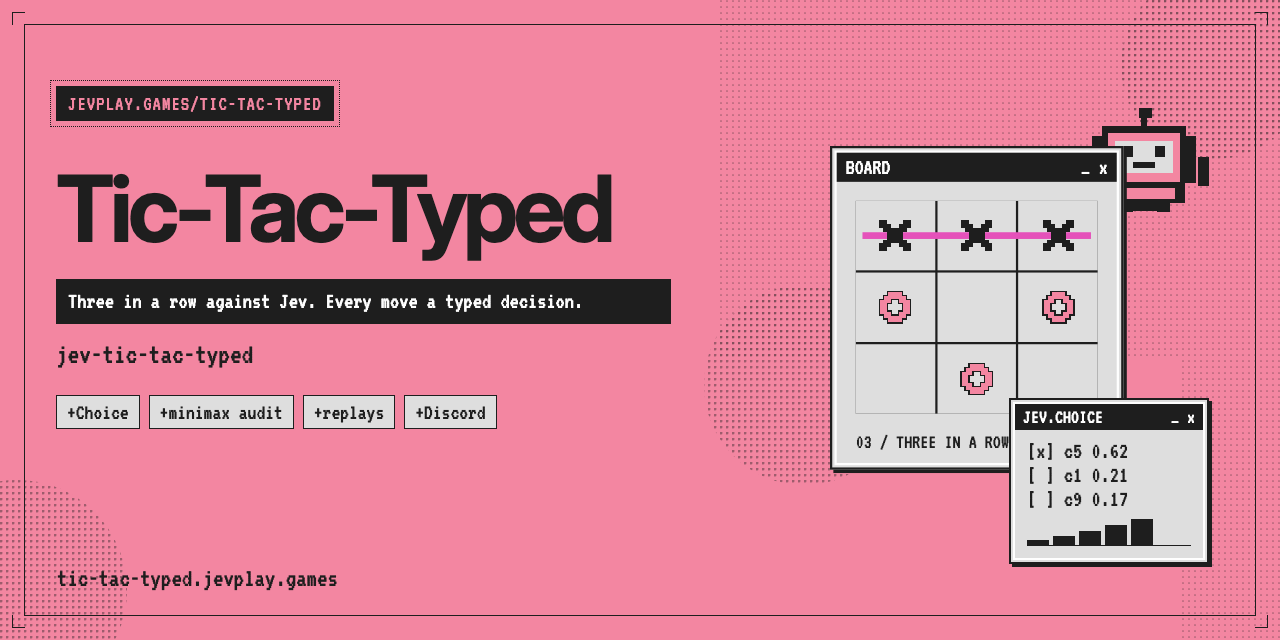
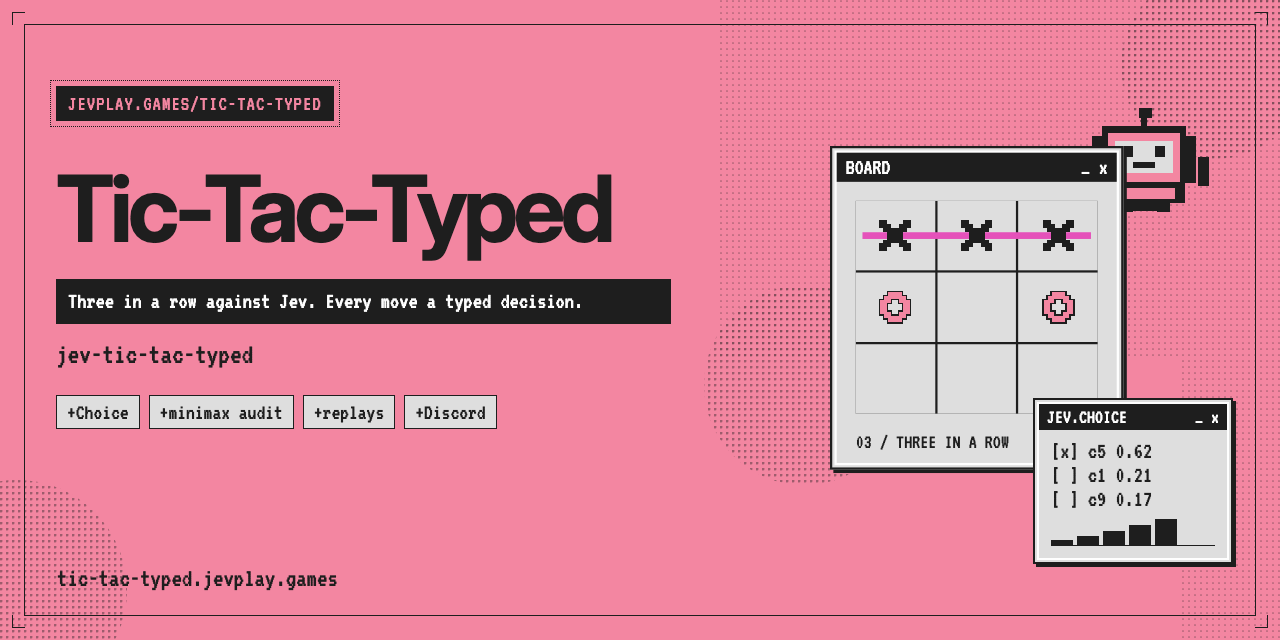
Show a legal final board and an unclipped caption on the Tic-Tac-Typed cards
The banner, social preview and OG card showed three Xs winning the top row
alongside three Os. X moves first, so a top-row win on X's third move leaves
O with two marks: the board was unreachable. The bottom-middle O is removed
from all three sources.

On the social preview the JEV.CHOICE window started exactly where the board
note ended, so its border clipped the W of "03 / THREE IN A ROW". The window
moves 24 px right; it stays inside the frame. The JEV.CHOICE title itself is
unchanged (open owner decision).

All three cards are re-rendered with assets/src/render.py (sizes unchanged:
2560x840, 1280x640, 1200x630). build-info, build-manifest and SHA256SUMS are
regenerated.

Changed region(s): [[0.7812, 0.625, 0.9688, 0.9062], [0.75, 0.5625, 0.7812, 0.625]]

diff --git a/assets/src/social.html b/assets/src/social.html
@@ -1,4 +1,4 @@
 <!doctype html><html><head><meta charset="utf-8"><title>Tic-Tac-Typed</title><style>
 @font-face{font-family:Inter;src:url('../../public/brand/inter-var.woff2')}@font-face{font-family:VT323;src:url('../../public/brand/vt323.woff2')}
-*{box-sizing:border-box}body{margin:0;background:#F386A1;color:#1E1E1E;font-family:VT323,'JetBrains Mono',monospace}main{position:relative;width:1280px;height:420px;overflow:hidden}.frame{position:absolute;inset:24px;border:1px solid #1E1E1E}.crop{position:absolute;width:13px;height:13px;border-color:#1E1E1E;border-style:solid;border-width:1px 0 0 1px;left:12px;top:12px}.crop.b{left:auto;right:12px;transform:rotate(90deg)}.crop.c{top:auto;bottom:12px;transform:rotate(-90deg)}.crop.d{left:auto;top:auto;right:12px;bottom:12px;transform:rotate(180deg)}.texture{position:absolute;inset:0;width:100%;height:100%}.copy{position:absolute;left:56px;top:49px;z-index:2}.tag{display:inline-block;background:#1E1E1E;color:#F386A1;font-size:21px;letter-spacing:1px;padding:7px 12px;outline:1px dotted #1E1E1E;outline-offset:5px}h1{font-family:Inter,sans-serif;font-weight:700;font-size:92px;letter-spacing:-4.5px;line-height:1.04;margin:31px 0 22px}.subtitle{background:#1E1E1E;color:#FEFEFE;font-size:23px;padding:9px 12px;width:max-content;max-width:720px}.chips{display:flex;gap:9px;margin-top:23px}.chip{background:#DEDEDE;border:1px solid #1E1E1E;padding:5px 10px;font-size:22px}.window{position:absolute;border:2px solid #1E1E1E;background:#DEDEDE;box-shadow:3px 3px 0 #1E1E1E;padding:2px;z-index:3}.inside{border:2px solid #FEFEFE}.bar{background:#1E1E1E;color:#FEFEFE;display:flex;justify-content:space-between;font-size:20px;line-height:26px;padding:0 8px;white-space:nowrap}.board{left:826px;top:59px;width:262px}.grid{display:grid;grid-template-columns:repeat(3,1fr);gap:2px;background:#1E1E1E;margin:17px;position:relative}.cell{height:62px;background:#DEDEDE;display:flex;align-items:center;justify-content:center}.cell svg{position:relative;z-index:1;width:44px;height:44px;shape-rendering:crispEdges}.win{position:absolute;left:6px;right:6px;top:28px;height:6px;background:#E551BA}.boardnote{font-size:18px;padding:0 17px 9px}.choice{left:1027px;top:224px;width:200px;z-index:4}.list{font-size:23px;padding:10px 12px 7px;line-height:1.05}.meter{height:27px;margin:0 12px 12px;display:flex;align-items:end;gap:4px;border-bottom:1px solid #1E1E1E}.meter i{display:block;background:#1E1E1E;width:22px}.robot{position:absolute;left:1064px;top:112px;width:140px;height:auto;z-index:2}.foot{position:absolute;left:57px;bottom:49px;font-size:26px}.slug{font-size:29px;margin:16px 0 0}.social main{height:640px}.social .copy{top:86px}.social h1{margin-top:40px}.social .subtitle{font-size:23px;width:615px;line-height:1.2}.social .chips{margin-top:26px}.social .board{left:830px;top:146px;transform:scale(1.12);transform-origin:top left}.social .choice{left:1009px;top:398px}.social .robot{left:1074px;top:105px}.og main{width:1200px;height:630px}.og .copy{top:93px}.og h1{font-size:84px;letter-spacing:-4.1px;margin-top:46px}.og .subtitle{font-size:30px}.og .board{left:830px;top:190px;transform:scale(1.12);transform-origin:top left}.og .robot{left:1002px;top:106px}.og .foot{bottom:55px}
-</style></head><body class="social"><main><svg class="texture" xmlns="http://www.w3.org/2000/svg"><defs><pattern id="dots" width="6" height="6" patternUnits="userSpaceOnUse"><circle cx="1" cy="1" r=".85" fill="#1E1E1E" opacity=".4"/></pattern><pattern id="dense" width="6" height="6" patternUnits="userSpaceOnUse"><circle cx="1" cy="1" r="1.5" fill="#1E1E1E" opacity=".4"/></pattern></defs><path d="M720 0H1280V640H1180V360H720Z" fill="url(#dots)"/><circle cx="804" cy="385" r="100" fill="url(#dense)"/><circle cx="1215" cy="65" r="94" fill="url(#dense)"/><circle cx="17" cy="590" r="110" fill="url(#dense)"/></svg><div class="frame"></div><i class="crop a"></i><i class="crop b"></i><i class="crop c"></i><i class="crop d"></i><div class="copy"><div class="tag">JEVPLAY.GAMES/TIC-TAC-TYPED</div><h1>Tic-Tac-Typed</h1><div class="subtitle">Three in a row against Jev. Every move a typed decision.</div><div class="slug">jev-tic-tac-typed</div><div class="chips"><span class="chip">+Choice</span><span class="chip">+minimax audit</span><span class="chip">+replays</span><span class="chip">+Discord</span></div></div><svg class="robot" viewBox="0 0 86 66" xmlns="http://www.w3.org/2000/svg" role="img" aria-label="Jev, a friendly boxy pixel robot" shape-rendering="crispEdges"><g fill="#1E1E1E"><path d="M40 2h8v6h-3v5h24v6h6v29h-7v12H53v5H33v-5H18V48h-7V19h6v-6h24V8h-1z"/><path d="M3 32h7v18H3zm73 0h7v18h-7z"/></g><path fill="#F386A1" d="M21 17h44v30H21zM24 51h38v7H24z"/><path fill="#DEDEDE" d="M25 22h36v20H25z"/><g fill="#1E1E1E"><path d="M30 25h6v7h-6zm20 0h6v7h-6zM36 35h14v4H36zM28 59h8v7h-8zm23 0h8v7h-8z"/></g></svg><section class="window board"><div class="inside"><div class="bar"><span>BOARD</span><span>_ x</span></div><div class="grid"><div class="cell"><svg viewBox="0 0 100 100"><path fill="#1E1E1E" d="M18 18h16v8h8v8h16v-8h8v-8h16v16h-8v8h-8v16h8v8h8v16H66v-8h-8v-8H42v8h-8v8H18V66h8v-8h8V42h-8v-8h-8z"/></svg></div><div class="cell"><svg viewBox="0 0 100 100"><path fill="#1E1E1E" d="M18 18h16v8h8v8h16v-8h8v-8h16v16h-8v8h-8v16h8v8h8v16H66v-8h-8v-8H42v8h-8v8H18V66h8v-8h8V42h-8v-8h-8z"/></svg></div><div class="cell"><svg viewBox="0 0 100 100"><path fill="#1E1E1E" d="M18 18h16v8h8v8h16v-8h8v-8h16v16h-8v8h-8v16h8v8h8v16H66v-8h-8v-8H42v8h-8v8H18V66h8v-8h8V42h-8v-8h-8z"/></svg></div><div class="cell"><svg viewBox="0 0 100 100"><path fill="#F386A1" fill-rule="evenodd" stroke="#1E1E1E" stroke-width="3" stroke-linejoin="miter" d="M34.5 18.5h31v8h8v8h8v31h-8v8h-8v8h-31v-8h-8v-8h-8v-31h8v-8h8z M42.5 34.5h15v8h8v15h-8v8h-15v-8h-8v-15h8z"/></svg></div><div class="cell"></div><div class="cell"><svg viewBox="0 0 100 100"><path fill="#F386A1" fill-rule="evenodd" stroke="#1E1E1E" stroke-width="3" stroke-linejoin="miter" d="M34.5 18.5h31v8h8v8h8v31h-8v8h-8v8h-31v-8h-8v-8h-8v-31h8v-8h8z M42.5 34.5h15v8h8v15h-8v8h-15v-8h-8v-15h8z"/></svg></div><div class="cell"></div><div class="cell"><svg viewBox="0 0 100 100"><path fill="#F386A1" fill-rule="evenodd" stroke="#1E1E1E" stroke-width="3" stroke-linejoin="miter" d="M34.5 18.5h31v8h8v8h8v31h-8v8h-8v8h-31v-8h-8v-8h-8v-31h8v-8h8z M42.5 34.5h15v8h8v15h-8v8h-15v-8h-8v-15h8z"/></svg></div><div class="cell"></div><div class="win"></div></div><div class="boardnote">03 / THREE IN A ROW</div></div></section><section class="window choice"><div class="inside"><div class="bar"><span>JEV.CHOICE</span><span>_ x</span></div><div class="list">[x] c5 0.62<br>[ ] c1 0.21<br>[ ] c9 0.17</div><div class="meter"><i style="height:5px"></i><i style="height:9px"></i><i style="height:14px"></i><i style="height:20px"></i><i style="height:26px"></i></div></div></section><footer class="foot">tic-tac-typed.jevplay.games</footer></main></body></html>
+*{box-sizing:border-box}body{margin:0;background:#F386A1;color:#1E1E1E;font-family:VT323,'JetBrains Mono',monospace}main{position:relative;width:1280px;height:420px;overflow:hidden}.frame{position:absolute;inset:24px;border:1px solid #1E1E1E}.crop{position:absolute;width:13px;height:13px;border-color:#1E1E1E;border-style:solid;border-width:1px 0 0 1px;left:12px;top:12px}.crop.b{left:auto;right:12px;transform:rotate(90deg)}.crop.c{top:auto;bottom:12px;transform:rotate(-90deg)}.crop.d{left:auto;top:auto;right:12px;bottom:12px;transform:rotate(180deg)}.texture{position:absolute;inset:0;width:100%;height:100%}.copy{position:absolute;left:56px;top:49px;z-index:2}.tag{display:inline-block;background:#1E1E1E;color:#F386A1;font-size:21px;letter-spacing:1px;padding:7px 12px;outline:1px dotted #1E1E1E;outline-offset:5px}h1{font-family:Inter,sans-serif;font-weight:700;font-size:92px;letter-spacing:-4.5px;line-height:1.04;margin:31px 0 22px}.subtitle{background:#1E1E1E;color:#FEFEFE;font-size:23px;padding:9px 12px;width:max-content;max-width:720px}.chips{display:flex;gap:9px;margin-top:23px}.chip{background:#DEDEDE;border:1px solid #1E1E1E;padding:5px 10px;font-size:22px}.window{position:absolute;border:2px solid #1E1E1E;background:#DEDEDE;box-shadow:3px 3px 0 #1E1E1E;padding:2px;z-index:3}.inside{border:2px solid #FEFEFE}.bar{background:#1E1E1E;color:#FEFEFE;display:flex;justify-content:space-between;font-size:20px;line-height:26px;padding:0 8px;white-space:nowrap}.board{left:826px;top:59px;width:262px}.grid{display:grid;grid-template-columns:repeat(3,1fr);gap:2px;background:#1E1E1E;margin:17px;position:relative}.cell{height:62px;background:#DEDEDE;display:flex;align-items:center;justify-content:center}.cell svg{position:relative;z-index:1;width:44px;height:44px;shape-rendering:crispEdges}.win{position:absolute;left:6px;right:6px;top:28px;height:6px;background:#E551BA}.boardnote{font-size:18px;padding:0 17px 9px}.choice{left:1027px;top:224px;width:200px;z-index:4}.list{font-size:23px;padding:10px 12px 7px;line-height:1.05}.meter{height:27px;margin:0 12px 12px;display:flex;align-items:end;gap:4px;border-bottom:1px solid #1E1E1E}.meter i{display:block;background:#1E1E1E;width:22px}.robot{position:absolute;left:1064px;top:112px;width:140px;height:auto;z-index:2}.foot{position:absolute;left:57px;bottom:49px;font-size:26px}.slug{font-size:29px;margin:16px 0 0}.social main{height:640px}.social .copy{top:86px}.social h1{margin-top:40px}.social .subtitle{font-size:23px;width:615px;line-height:1.2}.social .chips{margin-top:26px}.social .board{left:830px;top:146px;transform:scale(1.12);transform-origin:top left}.social .choice{left:1033px;top:398px}.social .robot{left:1074px;top:105px}.og main{width:1200px;height:630px}.og .copy{top:93px}.og h1{font-size:84px;letter-spacing:-4.1px;margin-top:46px}.og .subtitle{font-size:30px}.og .board{left:830px;top:190px;transform:scale(1.12);transform-origin:top left}.og .robot{left:1002px;top:106px}.og .foot{bottom:55px}
+</style></head><body class="social"><main><svg class="texture" xmlns="http://www.w3.org/2000/svg"><defs><pattern id="dots" width="6" height="6" patternUnits="userSpaceOnUse"><circle cx="1" cy="1" r=".85" fill="#1E1E1E" opacity=".4"/></pattern><pattern id="dense" width="6" height="6" patternUnits="userSpaceOnUse"><circle cx="1" cy="1" r="1.5" fill="#1E1E1E" opacity=".4"/></pattern></defs><path d="M720 0H1280V640H1180V360H720Z" fill="url(#dots)"/><circle cx="804" cy="385" r="100" fill="url(#dense)"/><circle cx="1215" cy="65" r="94" fill="url(#dense)"/><circle cx="17" cy="590" r="110" fill="url(#dense)"/></svg><div class="frame"></div><i class="crop a"></i><i class="crop b"></i><i class="crop c"></i><i class="crop d"></i><div class="copy"><div class="tag">JEVPLAY.GAMES/TIC-TAC-TYPED</div><h1>Tic-Tac-Typed</h1><div class="subtitle">Three in a row against Jev. Every move a typed decision.</div><div class="slug">jev-tic-tac-typed</div><div class="chips"><span class="chip">+Choice</span><span class="chip">+minimax audit</span><span class="chip">+replays</span><span class="chip">+Discord</span></div></div><svg class="robot" viewBox="0 0 86 66" xmlns="http://www.w3.org/2000/svg" role="img" aria-label="Jev, a friendly boxy pixel robot" shape-rendering="crispEdges"><g fill="#1E1E1E"><path d="M40 2h8v6h-3v5h24v6h6v29h-7v12H53v5H33v-5H18V48h-7V19h6v-6h24V8h-1z"/><path d="M3 32h7v18H3zm73 0h7v18h-7z"/></g><path fill="#F386A1" d="M21 17h44v30H21zM24 51h38v7H24z"/><path fill="#DEDEDE" d="M25 22h36v20H25z"/><g fill="#1E1E1E"><path d="M30 25h6v7h-6zm20 0h6v7h-6zM36 35h14v4H36zM28 59h8v7h-8zm23 0h8v7h-8z"/></g></svg><section class="window board"><div class="inside"><div class="bar"><span>BOARD</span><span>_ x</span></div><div class="grid"><div class="cell"><svg viewBox="0 0 100 100"><path fill="#1E1E1E" d="M18 18h16v8h8v8h16v-8h8v-8h16v16h-8v8h-8v16h8v8h8v16H66v-8h-8v-8H42v8h-8v8H18V66h8v-8h8V42h-8v-8h-8z"/></svg></div><div class="cell"><svg viewBox="0 0 100 100"><path fill="#1E1E1E" d="M18 18h16v8h8v8h16v-8h8v-8h16v16h-8v8h-8v16h8v8h8v16H66v-8h-8v-8H42v8h-8v8H18V66h8v-8h8V42h-8v-8h-8z"/></svg></div><div class="cell"><svg viewBox="0 0 100 100"><path fill="#1E1E1E" d="M18 18h16v8h8v8h16v-8h8v-8h16v16h-8v8h-8v16h8v8h8v16H66v-8h-8v-8H42v8h-8v8H18V66h8v-8h8V42h-8v-8h-8z"/></svg></div><div class="cell"><svg viewBox="0 0 100 100"><path fill="#F386A1" fill-rule="evenodd" stroke="#1E1E1E" stroke-width="3" stroke-linejoin="miter" d="M34.5 18.5h31v8h8v8h8v31h-8v8h-8v8h-31v-8h-8v-8h-8v-31h8v-8h8z M42.5 34.5h15v8h8v15h-8v8h-15v-8h-8v-15h8z"/></svg></div><div class="cell"></div><div class="cell"><svg viewBox="0 0 100 100"><path fill="#F386A1" fill-rule="evenodd" stroke="#1E1E1E" stroke-width="3" stroke-linejoin="miter" d="M34.5 18.5h31v8h8v8h8v31h-8v8h-8v8h-31v-8h-8v-8h-8v-31h8v-8h8z M42.5 34.5h15v8h8v15h-8v8h-15v-8h-8v-15h8z"/></svg></div><div class="cell"></div><div class="cell"></div><div class="cell"></div><div class="win"></div></div><div class="boardnote">03 / THREE IN A ROW</div></div></section><section class="window choice"><div class="inside"><div class="bar"><span>JEV.CHOICE</span><span>_ x</span></div><div class="list">[x] c5 0.62<br>[ ] c1 0.21<br>[ ] c9 0.17</div><div class="meter"><i style="height:5px"></i><i style="height:9px"></i><i style="height:14px"></i><i style="height:20px"></i><i style="height:26px"></i></div></div></section><footer class="foot">tic-tac-typed.jevplay.games</footer></main></body></html>

diff --git a/assets/src/banner.html b/assets/src/banner.html
@@ -1,4 +1,4 @@
 <!doctype html><html><head><meta charset="utf-8"><title>Tic-Tac-Typed</title><style>
 @font-face{font-family:Inter;src:url('../../public/brand/inter-var.woff2')}@font-face{font-family:VT323;src:url('../../public/brand/vt323.woff2')}
-*{box-sizing:border-box}body{margin:0;background:#F386A1;color:#1E1E1E;font-family:VT323,'JetBrains Mono',monospace}main{position:relative;width:1280px;height:420px;overflow:hidden}.frame{position:absolute;inset:24px;border:1px solid #1E1E1E}.crop{position:absolute;width:13px;height:13px;border-color:#1E1E1E;border-style:solid;border-width:1px 0 0 1px;left:12px;top:12px}.crop.b{left:auto;right:12px;transform:rotate(90deg)}.crop.c{top:auto;bottom:12px;transform:rotate(-90deg)}.crop.d{left:auto;top:auto;right:12px;bottom:12px;transform:rotate(180deg)}.texture{position:absolute;inset:0;width:100%;height:100%}.copy{position:absolute;left:56px;top:49px;z-index:2}.tag{display:inline-block;background:#1E1E1E;color:#F386A1;font-size:21px;letter-spacing:1px;padding:7px 12px;outline:1px dotted #1E1E1E;outline-offset:5px}h1{font-family:Inter,sans-serif;font-weight:700;font-size:92px;letter-spacing:-4.5px;line-height:1.04;margin:31px 0 22px}.subtitle{background:#1E1E1E;color:#FEFEFE;font-size:23px;padding:9px 12px;width:max-content;max-width:720px}.chips{display:flex;gap:9px;margin-top:23px}.chip{background:#DEDEDE;border:1px solid #1E1E1E;padding:5px 10px;font-size:22px}.window{position:absolute;border:2px solid #1E1E1E;background:#DEDEDE;box-shadow:3px 3px 0 #1E1E1E;padding:2px;z-index:3}.inside{border:2px solid #FEFEFE}.bar{background:#1E1E1E;color:#FEFEFE;display:flex;justify-content:space-between;font-size:20px;line-height:26px;padding:0 8px;white-space:nowrap}.board{left:826px;top:59px;width:262px}.grid{display:grid;grid-template-columns:repeat(3,1fr);gap:2px;background:#1E1E1E;margin:17px;position:relative}.cell{height:62px;background:#DEDEDE;display:flex;align-items:center;justify-content:center}.cell svg{position:relative;z-index:1;width:44px;height:44px;shape-rendering:crispEdges}.win{position:absolute;left:6px;right:6px;top:28px;height:6px;background:#E551BA}.boardnote{font-size:18px;padding:0 17px 9px}.choice{left:1027px;top:224px;width:200px;z-index:4}.list{font-size:23px;padding:10px 12px 7px;line-height:1.05}.meter{height:27px;margin:0 12px 12px;display:flex;align-items:end;gap:4px;border-bottom:1px solid #1E1E1E}.meter i{display:block;background:#1E1E1E;width:22px}.robot{position:absolute;left:1064px;top:112px;width:140px;height:auto;z-index:2}.foot{position:absolute;left:57px;bottom:49px;font-size:26px}.slug{font-size:29px;margin:16px 0 0}.social main{height:640px}.social .copy{top:86px}.social h1{margin-top:40px}.social .subtitle{font-size:23px;width:615px;line-height:1.2}.social .chips{margin-top:26px}.social .board{left:830px;top:146px;transform:scale(1.12);transform-origin:top left}.social .choice{left:1009px;top:398px}.social .robot{left:1074px;top:105px}.og main{width:1200px;height:630px}.og .copy{top:93px}.og h1{font-size:84px;letter-spacing:-4.1px;margin-top:46px}.og .subtitle{font-size:30px}.og .board{left:830px;top:190px;transform:scale(1.12);transform-origin:top left}.og .robot{left:1002px;top:106px}.og .foot{bottom:55px}
-</style></head><body class="banner"><main><svg class="texture" xmlns="http://www.w3.org/2000/svg"><defs><pattern id="dots" width="6" height="6" patternUnits="userSpaceOnUse"><circle cx="1" cy="1" r=".85" fill="#1E1E1E" opacity=".4"/></pattern><pattern id="dense" width="6" height="6" patternUnits="userSpaceOnUse"><circle cx="1" cy="1" r="1.5" fill="#1E1E1E" opacity=".4"/></pattern></defs><path d="M720 0H1280V640H1180V360H720Z" fill="url(#dots)"/><circle cx="804" cy="385" r="100" fill="url(#dense)"/><circle cx="1215" cy="65" r="94" fill="url(#dense)"/><circle cx="17" cy="590" r="110" fill="url(#dense)"/></svg><div class="frame"></div><i class="crop a"></i><i class="crop b"></i><i class="crop c"></i><i class="crop d"></i><div class="copy"><div class="tag">JEVPLAY.GAMES/TIC-TAC-TYPED</div><h1>Tic-Tac-Typed</h1><div class="subtitle">Three in a row against Jev. Every move a typed decision.</div><div class="chips"><span class="chip">+Choice</span><span class="chip">+minimax audit</span><span class="chip">+replays</span><span class="chip">+Discord</span></div></div><svg class="robot" viewBox="0 0 86 66" xmlns="http://www.w3.org/2000/svg" role="img" aria-label="Jev, a friendly boxy pixel robot" shape-rendering="crispEdges"><g fill="#1E1E1E"><path d="M40 2h8v6h-3v5h24v6h6v29h-7v12H53v5H33v-5H18V48h-7V19h6v-6h24V8h-1z"/><path d="M3 32h7v18H3zm73 0h7v18h-7z"/></g><path fill="#F386A1" d="M21 17h44v30H21zM24 51h38v7H24z"/><path fill="#DEDEDE" d="M25 22h36v20H25z"/><g fill="#1E1E1E"><path d="M30 25h6v7h-6zm20 0h6v7h-6zM36 35h14v4H36zM28 59h8v7h-8zm23 0h8v7h-8z"/></g></svg><section class="window board"><div class="inside"><div class="bar"><span>BOARD</span><span>_ x</span></div><div class="grid"><div class="cell"><svg viewBox="0 0 100 100"><path fill="#1E1E1E" d="M18 18h16v8h8v8h16v-8h8v-8h16v16h-8v8h-8v16h8v8h8v16H66v-8h-8v-8H42v8h-8v8H18V66h8v-8h8V42h-8v-8h-8z"/></svg></div><div class="cell"><svg viewBox="0 0 100 100"><path fill="#1E1E1E" d="M18 18h16v8h8v8h16v-8h8v-8h16v16h-8v8h-8v16h8v8h8v16H66v-8h-8v-8H42v8h-8v8H18V66h8v-8h8V42h-8v-8h-8z"/></svg></div><div class="cell"><svg viewBox="0 0 100 100"><path fill="#1E1E1E" d="M18 18h16v8h8v8h16v-8h8v-8h16v16h-8v8h-8v16h8v8h8v16H66v-8h-8v-8H42v8h-8v8H18V66h8v-8h8V42h-8v-8h-8z"/></svg></div><div class="cell"><svg viewBox="0 0 100 100"><path fill="#F386A1" fill-rule="evenodd" stroke="#1E1E1E" stroke-width="3" stroke-linejoin="miter" d="M34.5 18.5h31v8h8v8h8v31h-8v8h-8v8h-31v-8h-8v-8h-8v-31h8v-8h8z M42.5 34.5h15v8h8v15h-8v8h-15v-8h-8v-15h8z"/></svg></div><div class="cell"></div><div class="cell"><svg viewBox="0 0 100 100"><path fill="#F386A1" fill-rule="evenodd" stroke="#1E1E1E" stroke-width="3" stroke-linejoin="miter" d="M34.5 18.5h31v8h8v8h8v31h-8v8h-8v8h-31v-8h-8v-8h-8v-31h8v-8h8z M42.5 34.5h15v8h8v15h-8v8h-15v-8h-8v-15h8z"/></svg></div><div class="cell"></div><div class="cell"><svg viewBox="0 0 100 100"><path fill="#F386A1" fill-rule="evenodd" stroke="#1E1E1E" stroke-width="3" stroke-linejoin="miter" d="M34.5 18.5h31v8h8v8h8v31h-8v8h-8v8h-31v-8h-8v-8h-8v-31h8v-8h8z M42.5 34.5h15v8h8v15h-8v8h-15v-8h-8v-15h8z"/></svg></div><div class="cell"></div><div class="win"></div></div><div class="boardnote">03 / THREE IN A ROW</div></div></section><section class="window choice"><div class="inside"><div class="bar"><span>JEV.CHOICE</span><span>_ x</span></div><div class="list">[x] c5 0.62<br>[ ] c1 0.21<br>[ ] c9 0.17</div><div class="meter"><i style="height:5px"></i><i style="height:9px"></i><i style="height:14px"></i><i style="height:20px"></i><i style="height:26px"></i></div></div></section></main></body></html>
+*{box-sizing:border-box}body{margin:0;background:#F386A1;color:#1E1E1E;font-family:VT323,'JetBrains Mono',monospace}main{position:relative;width:1280px;height:420px;overflow:hidden}.frame{position:absolute;inset:24px;border:1px solid #1E1E1E}.crop{position:absolute;width:13px;height:13px;border-color:#1E1E1E;border-style:solid;border-width:1px 0 0 1px;left:12px;top:12px}.crop.b{left:auto;right:12px;transform:rotate(90deg)}.crop.c{top:auto;bottom:12px;transform:rotate(-90deg)}.crop.d{left:auto;top:auto;right:12px;bottom:12px;transform:rotate(180deg)}.texture{position:absolute;inset:0;width:100%;height:100%}.copy{position:absolute;left:56px;top:49px;z-index:2}.tag{display:inline-block;background:#1E1E1E;color:#F386A1;font-size:21px;letter-spacing:1px;padding:7px 12px;outline:1px dotted #1E1E1E;outline-offset:5px}h1{font-family:Inter,sans-serif;font-weight:700;font-size:92px;letter-spacing:-4.5px;line-height:1.04;margin:31px 0 22px}.subtitle{background:#1E1E1E;color:#FEFEFE;font-size:23px;padding:9px 12px;width:max-content;max-width:720px}.chips{display:flex;gap:9px;margin-top:23px}.chip{background:#DEDEDE;border:1px solid #1E1E1E;padding:5px 10px;font-size:22px}.window{position:absolute;border:2px solid #1E1E1E;background:#DEDEDE;box-shadow:3px 3px 0 #1E1E1E;padding:2px;z-index:3}.inside{border:2px solid #FEFEFE}.bar{background:#1E1E1E;color:#FEFEFE;display:flex;justify-content:space-between;font-size:20px;line-height:26px;padding:0 8px;white-space:nowrap}.board{left:826px;top:59px;width:262px}.grid{display:grid;grid-template-columns:repeat(3,1fr);gap:2px;background:#1E1E1E;margin:17px;position:relative}.cell{height:62px;background:#DEDEDE;display:flex;align-items:center;justify-content:center}.cell svg{position:relative;z-index:1;width:44px;height:44px;shape-rendering:crispEdges}.win{position:absolute;left:6px;right:6px;top:28px;height:6px;background:#E551BA}.boardnote{font-size:18px;padding:0 17px 9px}.choice{left:1027px;top:224px;width:200px;z-index:4}.list{font-size:23px;padding:10px 12px 7px;line-height:1.05}.meter{height:27px;margin:0 12px 12px;display:flex;align-items:end;gap:4px;border-bottom:1px solid #1E1E1E}.meter i{display:block;background:#1E1E1E;width:22px}.robot{position:absolute;left:1064px;top:112px;width:140px;height:auto;z-index:2}.foot{position:absolute;left:57px;bottom:49px;font-size:26px}.slug{font-size:29px;margin:16px 0 0}.social main{height:640px}.social .copy{top:86px}.social h1{margin-top:40px}.social .subtitle{font-size:23px;width:615px;line-height:1.2}.social .chips{margin-top:26px}.social .board{left:830px;top:146px;transform:scale(1.12);transform-origin:top left}.social .choice{left:1033px;top:398px}.social .robot{left:1074px;top:105px}.og main{width:1200px;height:630px}.og .copy{top:93px}.og h1{font-size:84px;letter-spacing:-4.1px;margin-top:46px}.og .subtitle{font-size:30px}.og .board{left:830px;top:190px;transform:scale(1.12);transform-origin:top left}.og .robot{left:1002px;top:106px}.og .foot{bottom:55px}
+</style></head><body class="banner"><main><svg class="texture" xmlns="http://www.w3.org/2000/svg"><defs><pattern id="dots" width="6" height="6" patternUnits="userSpaceOnUse"><circle cx="1" cy="1" r=".85" fill="#1E1E1E" opacity=".4"/></pattern><pattern id="dense" width="6" height="6" patternUnits="userSpaceOnUse"><circle cx="1" cy="1" r="1.5" fill="#1E1E1E" opacity=".4"/></pattern></defs><path d="M720 0H1280V640H1180V360H720Z" fill="url(#dots)"/><circle cx="804" cy="385" r="100" fill="url(#dense)"/><circle cx="1215" cy="65" r="94" fill="url(#dense)"/><circle cx="17" cy="590" r="110" fill="url(#dense)"/></svg><div class="frame"></div><i class="crop a"></i><i class="crop b"></i><i class="crop c"></i><i class="crop d"></i><div class="copy"><div class="tag">JEVPLAY.GAMES/TIC-TAC-TYPED</div><h1>Tic-Tac-Typed</h1><div class="subtitle">Three in a row against Jev. Every move a typed decision.</div><div class="chips"><span class="chip">+Choice</span><span class="chip">+minimax audit</span><span class="chip">+replays</span><span class="chip">+Discord</span></div></div><svg class="robot" viewBox="0 0 86 66" xmlns="http://www.w3.org/2000/svg" role="img" aria-label="Jev, a friendly boxy pixel robot" shape-rendering="crispEdges"><g fill="#1E1E1E"><path d="M40 2h8v6h-3v5h24v6h6v29h-7v12H53v5H33v-5H18V48h-7V19h6v-6h24V8h-1z"/><path d="M3 32h7v18H3zm73 0h7v18h-7z"/></g><path fill="#F386A1" d="M21 17h44v30H21zM24 51h38v7H24z"/><path fill="#DEDEDE" d="M25 22h36v20H25z"/><g fill="#1E1E1E"><path d="M30 25h6v7h-6zm20 0h6v7h-6zM36 35h14v4H36zM28 59h8v7h-8zm23 0h8v7h-8z"/></g></svg><section class="window board"><div class="inside"><div class="bar"><span>BOARD</span><span>_ x</span></div><div class="grid"><div class="cell"><svg viewBox="0 0 100 100"><path fill="#1E1E1E" d="M18 18h16v8h8v8h16v-8h8v-8h16v16h-8v8h-8v16h8v8h8v16H66v-8h-8v-8H42v8h-8v8H18V66h8v-8h8V42h-8v-8h-8z"/></svg></div><div class="cell"><svg viewBox="0 0 100 100"><path fill="#1E1E1E" d="M18 18h16v8h8v8h16v-8h8v-8h16v16h-8v8h-8v16h8v8h8v16H66v-8h-8v-8H42v8h-8v8H18V66h8v-8h8V42h-8v-8h-8z"/></svg></div><div class="cell"><svg viewBox="0 0 100 100"><path fill="#1E1E1E" d="M18 18h16v8h8v8h16v-8h8v-8h16v16h-8v8h-8v16h8v8h8v16H66v-8h-8v-8H42v8h-8v8H18V66h8v-8h8V42h-8v-8h-8z"/></svg></div><div class="cell"><svg viewBox="0 0 100 100"><path fill="#F386A1" fill-rule="evenodd" stroke="#1E1E1E" stroke-width="3" stroke-linejoin="miter" d="M34.5 18.5h31v8h8v8h8v31h-8v8h-8v8h-31v-8h-8v-8h-8v-31h8v-8h8z M42.5 34.5h15v8h8v15h-8v8h-15v-8h-8v-15h8z"/></svg></div><div class="cell"></div><div class="cell"><svg viewBox="0 0 100 100"><path fill="#F386A1" fill-rule="evenodd" stroke="#1E1E1E" stroke-width="3" stroke-linejoin="miter" d="M34.5 18.5h31v8h8v8h8v31h-8v8h-8v8h-31v-8h-8v-8h-8v-31h8v-8h8z M42.5 34.5h15v8h8v15h-8v8h-15v-8h-8v-15h8z"/></svg></div><div class="cell"></div><div class="cell"></div><div class="cell"></div><div class="win"></div></div><div class="boardnote">03 / THREE IN A ROW</div></div></section><section class="window choice"><div class="inside"><div class="bar"><span>JEV.CHOICE</span><span>_ x</span></div><div class="list">[x] c5 0.62<br>[ ] c1 0.21<br>[ ] c9 0.17</div><div class="meter"><i style="height:5px"></i><i style="height:9px"></i><i style="height:14px"></i><i style="height:20px"></i><i style="height:26px"></i></div></div></section></main></body></html>

diff --git a/assets/src/og.html b/assets/src/og.html
@@ -1,4 +1,4 @@
 <!doctype html><html><head><meta charset="utf-8"><title>Tic-Tac-Typed</title><style>
 @font-face{font-family:Inter;src:url('../../public/brand/inter-var.woff2')}@font-face{font-family:VT323;src:url('../../public/brand/vt323.woff2')}
-*{box-sizing:border-box}body{margin:0;background:#F386A1;color:#1E1E1E;font-family:VT323,'JetBrains Mono',monospace}main{position:relative;width:1280px;height:420px;overflow:hidden}.frame{position:absolute;inset:24px;border:1px solid #1E1E1E}.crop{position:absolute;width:13px;height:13px;border-color:#1E1E1E;border-style:solid;border-width:1px 0 0 1px;left:12px;top:12px}.crop.b{left:auto;right:12px;transform:rotate(90deg)}.crop.c{top:auto;bottom:12px;transform:rotate(-90deg)}.crop.d{left:auto;top:auto;right:12px;bottom:12px;transform:rotate(180deg)}.texture{position:absolute;inset:0;width:100%;height:100%}.copy{position:absolute;left:56px;top:49px;z-index:2}.tag{display:inline-block;background:#1E1E1E;color:#F386A1;font-size:21px;letter-spacing:1px;padding:7px 12px;outline:1px dotted #1E1E1E;outline-offset:5px}h1{font-family:Inter,sans-serif;font-weight:700;font-size:92px;letter-spacing:-4.5px;line-height:1.04;margin:31px 0 22px}.subtitle{background:#1E1E1E;color:#FEFEFE;font-size:23px;padding:9px 12px;width:max-content;max-width:720px}.chips{display:flex;gap:9px;margin-top:23px}.chip{background:#DEDEDE;border:1px solid #1E1E1E;padding:5px 10px;font-size:22px}.window{position:absolute;border:2px solid #1E1E1E;background:#DEDEDE;box-shadow:3px 3px 0 #1E1E1E;padding:2px;z-index:3}.inside{border:2px solid #FEFEFE}.bar{background:#1E1E1E;color:#FEFEFE;display:flex;justify-content:space-between;font-size:20px;line-height:26px;padding:0 8px;white-space:nowrap}.board{left:826px;top:59px;width:262px}.grid{display:grid;grid-template-columns:repeat(3,1fr);gap:2px;background:#1E1E1E;margin:17px;position:relative}.cell{height:62px;background:#DEDEDE;display:flex;align-items:center;justify-content:center}.cell svg{position:relative;z-index:1;width:44px;height:44px;shape-rendering:crispEdges}.win{position:absolute;left:6px;right:6px;top:28px;height:6px;background:#E551BA}.boardnote{font-size:18px;padding:0 17px 9px}.choice{left:1027px;top:224px;width:200px;z-index:4}.list{font-size:23px;padding:10px 12px 7px;line-height:1.05}.meter{height:27px;margin:0 12px 12px;display:flex;align-items:end;gap:4px;border-bottom:1px solid #1E1E1E}.meter i{display:block;background:#1E1E1E;width:22px}.robot{position:absolute;left:1064px;top:112px;width:140px;height:auto;z-index:2}.foot{position:absolute;left:57px;bottom:49px;font-size:26px}.slug{font-size:29px;margin:16px 0 0}.social main{height:640px}.social .copy{top:86px}.social h1{margin-top:40px}.social .subtitle{font-size:23px;width:615px;line-height:1.2}.social .chips{margin-top:26px}.social .board{left:830px;top:146px;transform:scale(1.12);transform-origin:top left}.social .choice{left:1009px;top:398px}.social .robot{left:1074px;top:105px}.og main{width:1200px;height:630px}.og .copy{top:93px}.og h1{font-size:84px;letter-spacing:-4.1px;margin-top:46px}.og .subtitle{font-size:30px}.og .board{left:830px;top:190px;transform:scale(1.12);transform-origin:top left}.og .robot{left:1002px;top:106px}.og .foot{bottom:55px}
-</style></head><body class="og"><main><svg class="texture" xmlns="http://www.w3.org/2000/svg"><defs><pattern id="dots" width="6" height="6" patternUnits="userSpaceOnUse"><circle cx="1" cy="1" r=".85" fill="#1E1E1E" opacity=".4"/></pattern><pattern id="dense" width="6" height="6" patternUnits="userSpaceOnUse"><circle cx="1" cy="1" r="1.5" fill="#1E1E1E" opacity=".4"/></pattern></defs><path d="M720 0H1280V640H1180V360H720Z" fill="url(#dots)"/><circle cx="804" cy="385" r="100" fill="url(#dense)"/><circle cx="1215" cy="65" r="94" fill="url(#dense)"/><circle cx="17" cy="590" r="110" fill="url(#dense)"/></svg><div class="frame"></div><i class="crop a"></i><i class="crop b"></i><i class="crop c"></i><i class="crop d"></i><div class="copy"><div class="tag">JEVPLAY.GAMES</div><h1>Tic-Tac-Typed</h1><div class="subtitle">Three in a row against Jev.</div></div><svg class="robot" viewBox="0 0 86 66" xmlns="http://www.w3.org/2000/svg" role="img" aria-label="Jev, a friendly boxy pixel robot" shape-rendering="crispEdges"><g fill="#1E1E1E"><path d="M40 2h8v6h-3v5h24v6h6v29h-7v12H53v5H33v-5H18V48h-7V19h6v-6h24V8h-1z"/><path d="M3 32h7v18H3zm73 0h7v18h-7z"/></g><path fill="#F386A1" d="M21 17h44v30H21zM24 51h38v7H24z"/><path fill="#DEDEDE" d="M25 22h36v20H25z"/><g fill="#1E1E1E"><path d="M30 25h6v7h-6zm20 0h6v7h-6zM36 35h14v4H36zM28 59h8v7h-8zm23 0h8v7h-8z"/></g></svg><section class="window board"><div class="inside"><div class="bar"><span>BOARD</span><span>_ x</span></div><div class="grid"><div class="cell"><svg viewBox="0 0 100 100"><path fill="#1E1E1E" d="M18 18h16v8h8v8h16v-8h8v-8h16v16h-8v8h-8v16h8v8h8v16H66v-8h-8v-8H42v8h-8v8H18V66h8v-8h8V42h-8v-8h-8z"/></svg></div><div class="cell"><svg viewBox="0 0 100 100"><path fill="#1E1E1E" d="M18 18h16v8h8v8h16v-8h8v-8h16v16h-8v8h-8v16h8v8h8v16H66v-8h-8v-8H42v8h-8v8H18V66h8v-8h8V42h-8v-8h-8z"/></svg></div><div class="cell"><svg viewBox="0 0 100 100"><path fill="#1E1E1E" d="M18 18h16v8h8v8h16v-8h8v-8h16v16h-8v8h-8v16h8v8h8v16H66v-8h-8v-8H42v8h-8v8H18V66h8v-8h8V42h-8v-8h-8z"/></svg></div><div class="cell"><svg viewBox="0 0 100 100"><path fill="#F386A1" fill-rule="evenodd" stroke="#1E1E1E" stroke-width="3" stroke-linejoin="miter" d="M34.5 18.5h31v8h8v8h8v31h-8v8h-8v8h-31v-8h-8v-8h-8v-31h8v-8h8z M42.5 34.5h15v8h8v15h-8v8h-15v-8h-8v-15h8z"/></svg></div><div class="cell"></div><div class="cell"><svg viewBox="0 0 100 100"><path fill="#F386A1" fill-rule="evenodd" stroke="#1E1E1E" stroke-width="3" stroke-linejoin="miter" d="M34.5 18.5h31v8h8v8h8v31h-8v8h-8v8h-31v-8h-8v-8h-8v-31h8v-8h8z M42.5 34.5h15v8h8v15h-8v8h-15v-8h-8v-15h8z"/></svg></div><div class="cell"></div><div class="cell"><svg viewBox="0 0 100 100"><path fill="#F386A1" fill-rule="evenodd" stroke="#1E1E1E" stroke-width="3" stroke-linejoin="miter" d="M34.5 18.5h31v8h8v8h8v31h-8v8h-8v8h-31v-8h-8v-8h-8v-31h8v-8h8z M42.5 34.5h15v8h8v15h-8v8h-15v-8h-8v-15h8z"/></svg></div><div class="cell"></div><div class="win"></div></div><div class="boardnote">03 / THREE IN A ROW</div></div></section><footer class="foot">tic-tac-typed.jevplay.games</footer></main></body></html>
+*{box-sizing:border-box}body{margin:0;background:#F386A1;color:#1E1E1E;font-family:VT323,'JetBrains Mono',monospace}main{position:relative;width:1280px;height:420px;overflow:hidden}.frame{position:absolute;inset:24px;border:1px solid #1E1E1E}.crop{position:absolute;width:13px;height:13px;border-color:#1E1E1E;border-style:solid;border-width:1px 0 0 1px;left:12px;top:12px}.crop.b{left:auto;right:12px;transform:rotate(90deg)}.crop.c{top:auto;bottom:12px;transform:rotate(-90deg)}.crop.d{left:auto;top:auto;right:12px;bottom:12px;transform:rotate(180deg)}.texture{position:absolute;inset:0;width:100%;height:100%}.copy{position:absolute;left:56px;top:49px;z-index:2}.tag{display:inline-block;background:#1E1E1E;color:#F386A1;font-size:21px;letter-spacing:1px;padding:7px 12px;outline:1px dotted #1E1E1E;outline-offset:5px}h1{font-family:Inter,sans-serif;font-weight:700;font-size:92px;letter-spacing:-4.5px;line-height:1.04;margin:31px 0 22px}.subtitle{background:#1E1E1E;color:#FEFEFE;font-size:23px;padding:9px 12px;width:max-content;max-width:720px}.chips{display:flex;gap:9px;margin-top:23px}.chip{background:#DEDEDE;border:1px solid #1E1E1E;padding:5px 10px;font-size:22px}.window{position:absolute;border:2px solid #1E1E1E;background:#DEDEDE;box-shadow:3px 3px 0 #1E1E1E;padding:2px;z-index:3}.inside{border:2px solid #FEFEFE}.bar{background:#1E1E1E;color:#FEFEFE;display:flex;justify-content:space-between;font-size:20px;line-height:26px;padding:0 8px;white-space:nowrap}.board{left:826px;top:59px;width:262px}.grid{display:grid;grid-template-columns:repeat(3,1fr);gap:2px;background:#1E1E1E;margin:17px;position:relative}.cell{height:62px;background:#DEDEDE;display:flex;align-items:center;justify-content:center}.cell svg{position:relative;z-index:1;width:44px;height:44px;shape-rendering:crispEdges}.win{position:absolute;left:6px;right:6px;top:28px;height:6px;background:#E551BA}.boardnote{font-size:18px;padding:0 17px 9px}.choice{left:1027px;top:224px;width:200px;z-index:4}.list{font-size:23px;padding:10px 12px 7px;line-height:1.05}.meter{height:27px;margin:0 12px 12px;display:flex;align-items:end;gap:4px;border-bottom:1px solid #1E1E1E}.meter i{display:block;background:#1E1E1E;width:22px}.robot{position:absolute;left:1064px;top:112px;width:140px;height:auto;z-index:2}.foot{position:absolute;left:57px;bottom:49px;font-size:26px}.slug{font-size:29px;margin:16px 0 0}.social main{height:640px}.social .copy{top:86px}.social h1{margin-top:40px}.social .subtitle{font-size:23px;width:615px;line-height:1.2}.social .chips{margin-top:26px}.social .board{left:830px;top:146px;transform:scale(1.12);transform-origin:top left}.social .choice{left:1033px;top:398px}.social .robot{left:1074px;top:105px}.og main{width:1200px;height:630px}.og .copy{top:93px}.og h1{font-size:84px;letter-spacing:-4.1px;margin-top:46px}.og .subtitle{font-size:30px}.og .board{left:830px;top:190px;transform:scale(1.12);transform-origin:top left}.og .robot{left:1002px;top:106px}.og .foot{bottom:55px}
+</style></head><body class="og"><main><svg class="texture" xmlns="http://www.w3.org/2000/svg"><defs><pattern id="dots" width="6" height="6" patternUnits="userSpaceOnUse"><circle cx="1" cy="1" r=".85" fill="#1E1E1E" opacity=".4"/></pattern><pattern id="dense" width="6" height="6" patternUnits="userSpaceOnUse"><circle cx="1" cy="1" r="1.5" fill="#1E1E1E" opacity=".4"/></pattern></defs><path d="M720 0H1280V640H1180V360H720Z" fill="url(#dots)"/><circle cx="804" cy="385" r="100" fill="url(#dense)"/><circle cx="1215" cy="65" r="94" fill="url(#dense)"/><circle cx="17" cy="590" r="110" fill="url(#dense)"/></svg><div class="frame"></div><i class="crop a"></i><i class="crop b"></i><i class="crop c"></i><i class="crop d"></i><div class="copy"><div class="tag">JEVPLAY.GAMES</div><h1>Tic-Tac-Typed</h1><div class="subtitle">Three in a row against Jev.</div></div><svg class="robot" viewBox="0 0 86 66" xmlns="http://www.w3.org/2000/svg" role="img" aria-label="Jev, a friendly boxy pixel robot" shape-rendering="crispEdges"><g fill="#1E1E1E"><path d="M40 2h8v6h-3v5h24v6h6v29h-7v12H53v5H33v-5H18V48h-7V19h6v-6h24V8h-1z"/><path d="M3 32h7v18H3zm73 0h7v18h-7z"/></g><path fill="#F386A1" d="M21 17h44v30H21zM24 51h38v7H24z"/><path fill="#DEDEDE" d="M25 22h36v20H25z"/><g fill="#1E1E1E"><path d="M30 25h6v7h-6zm20 0h6v7h-6zM36 35h14v4H36zM28 59h8v7h-8zm23 0h8v7h-8z"/></g></svg><section class="window board"><div class="inside"><div class="bar"><span>BOARD</span><span>_ x</span></div><div class="grid"><div class="cell"><svg viewBox="0 0 100 100"><path fill="#1E1E1E" d="M18 18h16v8h8v8h16v-8h8v-8h16v16h-8v8h-8v16h8v8h8v16H66v-8h-8v-8H42v8h-8v8H18V66h8v-8h8V42h-8v-8h-8z"/></svg></div><div class="cell"><svg viewBox="0 0 100 100"><path fill="#1E1E1E" d="M18 18h16v8h8v8h16v-8h8v-8h16v16h-8v8h-8v16h8v8h8v16H66v-8h-8v-8H42v8h-8v8H18V66h8v-8h8V42h-8v-8h-8z"/></svg></div><div class="cell"><svg viewBox="0 0 100 100"><path fill="#1E1E1E" d="M18 18h16v8h8v8h16v-8h8v-8h16v16h-8v8h-8v16h8v8h8v16H66v-8h-8v-8H42v8h-8v8H18V66h8v-8h8V42h-8v-8h-8z"/></svg></div><div class="cell"><svg viewBox="0 0 100 100"><path fill="#F386A1" fill-rule="evenodd" stroke="#1E1E1E" stroke-width="3" stroke-linejoin="miter" d="M34.5 18.5h31v8h8v8h8v31h-8v8h-8v8h-31v-8h-8v-8h-8v-31h8v-8h8z M42.5 34.5h15v8h8v15h-8v8h-15v-8h-8v-15h8z"/></svg></div><div class="cell"></div><div class="cell"><svg viewBox="0 0 100 100"><path fill="#F386A1" fill-rule="evenodd" stroke="#1E1E1E" stroke-width="3" stroke-linejoin="miter" d="M34.5 18.5h31v8h8v8h8v31h-8v8h-8v8h-31v-8h-8v-8h-8v-31h8v-8h8z M42.5 34.5h15v8h8v15h-8v8h-15v-8h-8v-15h8z"/></svg></div><div class="cell"></div><div class="cell"></div><div class="cell"></div><div class="win"></div></div><div class="boardnote">03 / THREE IN A ROW</div></div></section><footer class="foot">tic-tac-typed.jevplay.games</footer></main></body></html>

diff --git a/server/build-info.js b/server/build-info.js
@@ -1,2 +1,2 @@
 // Generated from public/server/local/migrations sources, excluding this file and reference-audit.json.
[2 lines of base64/hex data omitted]
